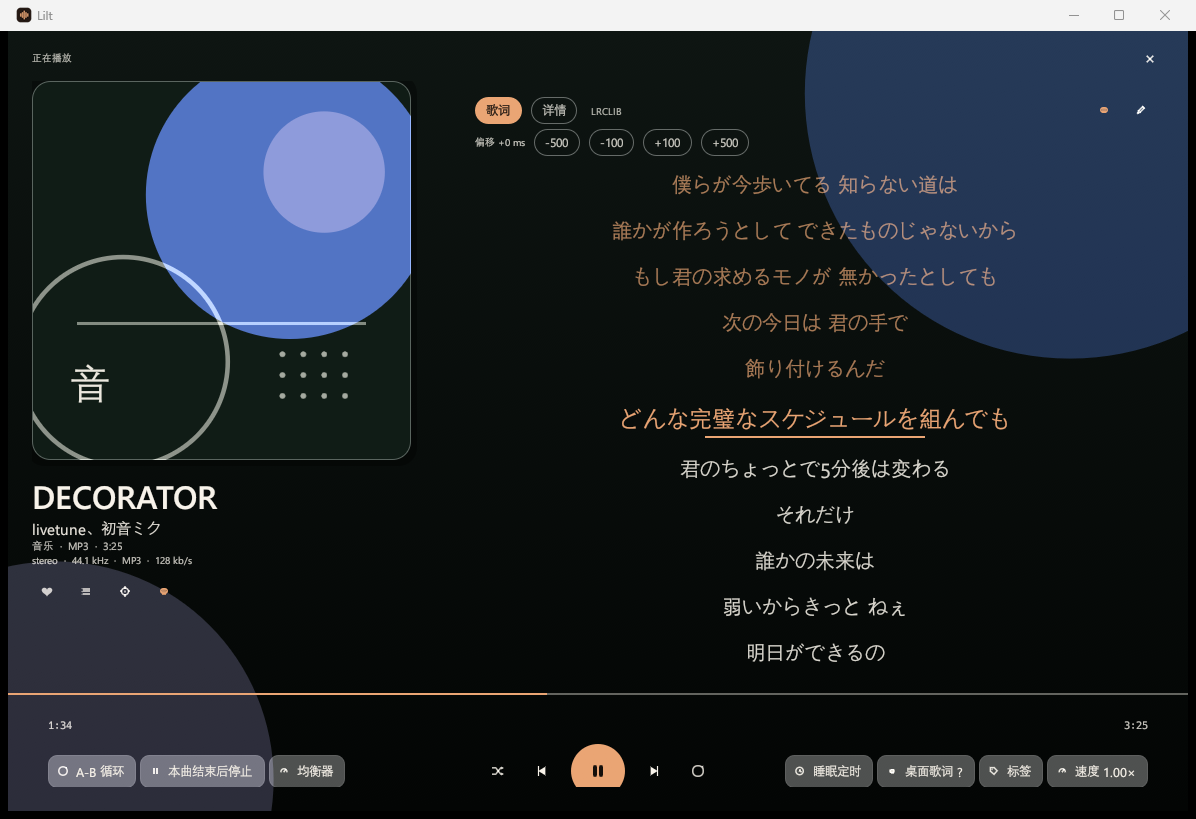
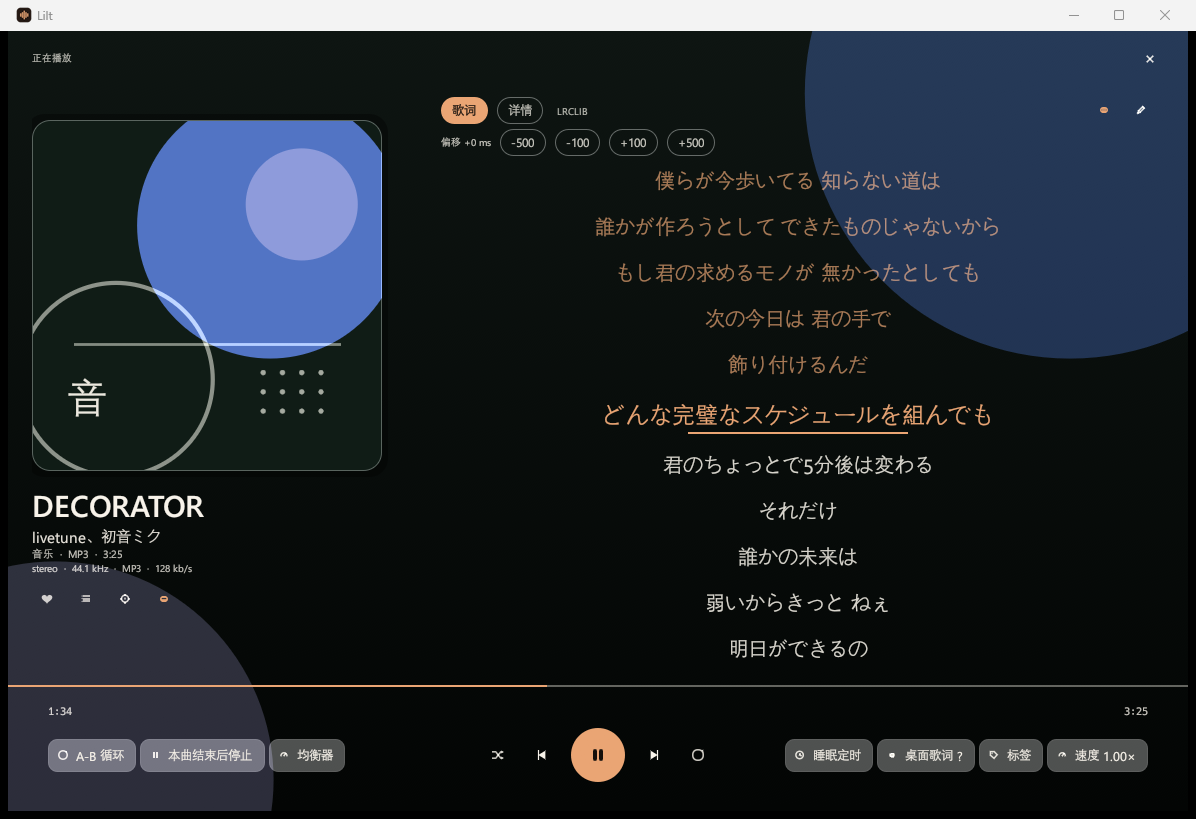
fix(now-playing): fit bottom controls and adapt to maximized windows

diff --git a/base/app/src/ui/now_playing.rs b/base/app/src/ui/now_playing.rs
@@ -12,11 +12,11 @@ use crate::model::{format_duration, LyricsSource, Page, RepeatMode, Song};
 use crate::theme::{cover_palette, display_font, mix, with_alpha, Palette};
 use crate::widgets;
 use eframe::egui::{
-    self, Align, Color32, FontId, Layout, Pos2, Rect, RichText, ScrollArea, Sense, Stroke, Ui,
-    UiBuilder, Vec2,
+    self, Align, Align2, Color32, FontId, Layout, Pos2, Rect, RichText, ScrollArea, Sense, Stroke,
+    Ui, UiBuilder, Vec2,
 };
 
-const MAX_CONTENT_WIDTH: f32 = 1180.0;
+const MAX_CONTENT_WIDTH: f32 = 2200.0;
 const OUTER_MARGIN: f32 = 24.0;
 const LEFT_GAP: f32 = 20.0;
 
@@ -163,7 +163,7 @@ pub fn now_playing(app: &mut LiltApp, ctx: &egui::Context) {
             let content_width = (screen.width() - OUTER_MARGIN * 2.0)
                 .min(MAX_CONTENT_WIDTH)
                 .max(560.0);
-            let bottom_h = 104.0;
+            let bottom_h = 112.0;
 
             ui.allocate_ui_with_layout(
                 Vec2::new(screen.width(), screen.height()),
@@ -201,9 +201,9 @@ pub fn now_playing(app: &mut LiltApp, ctx: &egui::Context) {
                     ui.add_space(8.0);
 
                     let body_h = (screen.bottom() - 14.0 - bottom_h - ui.cursor().top()).max(250.0);
-                    let left_w = (content_width * 0.35)
-                        .clamp(232.0, 400.0)
-                        .min(content_width - 292.0);
+                    let left_w = (content_width * 0.32)
+                        .clamp(250.0, 560.0)
+                        .min(content_width - 300.0);
                     let right_w = content_width - left_w - LEFT_GAP;
 
                     let (body_rect, _) =
@@ -398,7 +398,9 @@ fn left_column(
     locate_current: &mut bool,
     toggle_desktop: &mut bool,
 ) {
-    let cover = (body_h - 118.0).max(120.0).min(body_h * 0.62).min(left_w);
+    let cover = (body_h - 160.0).max(100.0).min(body_h * 0.58).min(left_w);
+    let offset = ((body_h - (cover + 175.0)) * 0.5).clamp(0.0, 100.0);
+    ui.add_space(offset);
     let (cover_rect, _) = ui.allocate_exact_size(Vec2::splat(cover), Sense::hover());
     ui.painter()
         .rect_filled(cover_rect.expand(6.0), 18.0, with_alpha(Color32::BLACK, 90));
@@ -1076,7 +1078,7 @@ fn transport_bar(
     if let Some(value) = divider_seek(ui, fraction, &app.palette, ink, screen_width) {
         *seek = Some(value);
     }
-    ui.add_space(2.0);
+    ui.add_space(4.0);
 
     let outer_pad = ((screen_width - width) / 2.0).max(16.0);
     let content_rect = Rect::from_min_max(
@@ -1088,21 +1090,23 @@ fn transport_bar(
     );
     child_ui(ui, content_rect, Layout::top_down(Align::Min), |ui| {
         ui.spacing_mut().item_spacing.y = 0.0;
-        ui.horizontal(|ui| {
-            ui.label(
-                RichText::new(format_duration(position))
-                    .font(FontId::monospace(10.0))
-                    .color(ink_muted),
-            );
-            ui.with_layout(Layout::right_to_left(Align::Center), |ui| {
-                ui.label(
-                    RichText::new(format_duration(duration))
-                        .font(FontId::monospace(10.0))
-                        .color(ink_muted),
-                );
-            });
-        });
-        ui.add_space(3.0);
+        let content_left = ui.cursor().left();
+        let (time_rect, _) = ui.allocate_exact_size(Vec2::new(width, 14.0), Sense::hover());
+        ui.painter().text(
+            Pos2::new(content_left, time_rect.top()),
+            Align2::LEFT_TOP,
+            format_duration(position),
+            FontId::monospace(10.0),
+            ink_muted,
+        );
+        ui.painter().text(
+            Pos2::new(content_left + width, time_rect.top()),
+            Align2::RIGHT_TOP,
+            format_duration(duration),
+            FontId::monospace(10.0),
+            ink_muted,
+        );
+        ui.add_space(4.0);
 
         let play_size = 54.0;
         let skip_size = 38.0;
@@ -1158,8 +1162,10 @@ fn transport_bar(
         };
         let compact_speed = format!("{:.2}×", app.state.settings.playback_speed);
 
+        let row_top = ui.cursor().top()
+            + ((content_rect.bottom() - ui.cursor().top() - row_h) * 0.5).max(0.0);
         let row_rect = Rect::from_min_size(
-            Pos2::new(ui.cursor().left(), ui.cursor().top()),
+            Pos2::new(ui.cursor().left(), row_top),
             Vec2::new(width, row_h),
         );
         child_ui(ui, row_rect, Layout::left_to_right(Align::Center), |ui| {

diff --git a/docs/feature-gap-and-roadmap.md b/docs/feature-gap-and-roadmap.md
@@ -908,7 +908,7 @@
 
 - PC 正在播放页改为图 4 式两栏布局：左侧封面与歌曲信息，右侧大歌词面板，底部控制区；歌词面板占右侧全部可用高度，1180×780 时可见约 10 行，较旧的 180 px 底部面板明显增大。歌词区与控制区都不使用卡片背景或边框，直接落在封面配色页面上；底部控制区顶部是一条通栏进度线，作为歌词区与控制区的分隔。
 - PC 歌词水平居中；按播放进度高亮当前行并加主题色短下划线，在当前行变化时用 `scroll_to_rect(Align::Center)` 自动滚到歌词面板中间。已播放行使用设置中的已播放颜色，未播放行使用未播放颜色；点击带时间歌词行跳转。没有歌词时在面板内显示获取状态、AI/重试/候选按钮。
-- PC 右侧新增“歌词 / 详情”标签；详情保留接下来播放与文件信息。通栏进度线下方的时间分列左右，五键播放控制始终居中；A-B、单曲停止、均衡器、睡眠定时、桌面歌词、标签、速度等快捷按钮分布在两侧外缘，宽窗口用完整文字、中等窗口用短标签、最窄窗口用图标，播放键位置不变。
+- PC 右侧新增“歌词 / 详情”标签；详情保留接下来播放与文件信息。通栏进度线下方的时间分列左右，五键播放控制始终居中；A-B、单曲停止、均衡器、睡眠定时、桌面歌词、标签、速度等快捷按钮分布在两侧外缘，宽窗口用完整文字、中等窗口用短标签、最窄窗口用图标，播放键位置不变。最大化时内容宽度扩展到 2200 px，左侧封面分组垂直平衡，歌词与控制区随窗口展开。
 - Android 播放页把歌词从底部卡片移到封面与歌曲标题之间：居中显示当前行与下一行，点击整块歌词进入全屏歌词页。全屏页提供居中自动滚动、当前行高亮与背景、点击行跳转、来源标签、偏移控件、进度条和播放控制；右上角铅笔进入原歌词编辑页，菜单同时保留“歌词/编辑歌词”入口。
 - PC 70 项单元测试通过（1 项忽略）；Android 60 项单元测试通过；Android 模拟器 1080×1920 实测播放页与全屏歌词页。
 - 证据见 `base/app/checks/now-playing-lyrics-layout/` 和 `base/app/checks/android-player-lyrics-redesign/`。
@@ -1001,7 +1001,7 @@
 | 2026-11-24 | 文件名标签与 AI 歌词修复 | 完成 | PC/Android 扫描按 `歌手 - 歌名` 兜底、AI 草稿提示词与拒绝识别、PC AI 开发者日志、LRCLIB null 容错、PC 67 项 + Android 60 项测试 |
 | 2026-11-24 | 桌面歌词无级缩放 | 完成 | 解锁态歌词、行距、工具栏按钮与图标同步缩放；取消 460×160 / 3600×760 限制、PC 70 项测试 |
 | 2026-11-24 | 桌面歌词缩放边框 | 完成 | 解锁态 8 px 可见缩放边框、标准双向/斜向光标、原生拖动缩放、PC 70 项测试 |
-| 2026-11-24 | 歌词优先播放页 | 完成 | PC 两栏歌词页、居中自动滚动、无卡片背景、通栏进度线分隔、两侧快捷按钮与居中五键控制；Android 居中当前/下一行与全屏歌词；PC 70 项 + Android 60 项测试 |
+| 2026-11-24 | 歌词优先播放页 | 完成 | PC 两栏歌词页、居中自动滚动、无卡片背景、通栏进度线分隔、两侧快捷按钮与居中五键控制、最大化自适应；Android 居中当前/下一行与全屏歌词；PC 70 项 + Android 60 项测试 |
 | 2026-11-23 | Bugfix | 完成 | PC M4A/MP4 解码崩溃修复、内容探测标签/时长、损坏文件错误提示、PC 41 项测试 |
 | 下一步 | Round 7-E | 待定 | 真正的交叉淡化、批量重命名、Android 磁贴/Auto |
 
@@ -1125,3 +1125,4 @@ Round 4 的截图、数据库迁移和计数验证见 `base/app/checks/round-4/`
 | v0.13.8 | 2026-11-24 | 桌面歌词无级缩放：取消最小/最大尺寸限制，歌词、按钮与图标一起缩放 |
 | v0.13.9 | 2026-11-24 | 歌词优先播放页：PC 两栏布局、居中自动滚动与歌词/详情标签；Android 居中当前/下一行与全屏歌词页 |
 | v0.13.10 | 2026-11-24 | 正在播放页视觉收口：去掉卡片底色、通栏进度条分隔、快捷按钮分列两侧且五键播放控制保持居中 |
+| v0.13.11 | 2026-11-24 | 播放页自适应最大化：内容宽度扩展到 2200 px，左侧封面分组垂直平衡，底部五键与两侧控件完整显示 |

diff --git a/base/app/checks/now-playing-lyrics-layout/README.md b/base/app/checks/now-playing-lyrics-layout/README.md
@@ -19,6 +19,9 @@ right, and one transport bar along the bottom.
   windows use full labels; medium windows switch to short labels (A-B, 本曲后停止, 均衡,
   定时, 桌面, 标签, 1.00×); only the narrowest windows use icon buttons. No label is clipped
   at the tested 1045/900/720 px widths.
+- Large and maximized windows expand the content width up to 2200 px instead of staying in
+  a 1180 px column. The cover grows, the left group is vertically balanced, and the lyrics
+  and controls fill the window while the transport stays at its centre.
 - Lyric lines are centred horizontally. The active line is centred vertically in the pane
   with `scroll_to_rect(..., Align::Center)` whenever the highlighted line changes, so the
   sheet follows playback.
@@ -44,6 +47,7 @@ right, and one transport bar along the bottom.
 | `04-after-720x540.png` | Minimum window keeps the transport centred and all controls unclipped |
 | `05-details-tab.png` | Details tab with Up next and the file card |
 | `06-compact-1045x650.png` | Medium window uses short but complete labels; transport stays centred and nothing is cut off |
+| `07-maximized-1900x1000.png` | Maximized layout expands, balances the left group, and keeps the fully visible transport centred |
 
 The `02` capture uses `LILT_START_PAGE=now`, `LILT_LYRICS=1`, `LILT_AUTOPLAY=1` and
 `LILT_SEEK=80` against a copied test state, then PrintWindow at 1180×780.
@@ -60,6 +64,6 @@ in `base/app/src/ui/now_playing.rs`; `dialogs.rs` delegates to it so the existin
 and action plumbing stays unchanged.
 
 ```text
-dist/Lilt-0.1.0-win64/Lilt.exe        11,961,856 bytes  (PE subsystem 2)
-dist/Lilt-0.1.0-win64-portable.zip    18,496,032 bytes
+dist/Lilt-0.1.0-win64/Lilt.exe        11,960,320 bytes  (PE subsystem 2)
+dist/Lilt-0.1.0-win64-portable.zip    18,495,991 bytes
 ```

diff --git a/base/app/README.md b/base/app/README.md
@@ -112,9 +112,11 @@ Set `LILT_DATA_DIR` to use a different data folder.
   background. A full-window progress line separates the lyrics from the controls; the
   played part uses the theme accent. Quick actions sit at the two outer edges while
   shuffle, previous, play/pause, next and repeat stay exactly centred; medium windows use
-  short labels and the narrowest windows use icons, so no control is clipped. The current
-  line follows playback, is kept in the middle, and has a short accent underline. Clicking
-  any timed line seeks to it. The **Details** tab keeps Up next and the file card.
+  short labels and the narrowest windows use icons, so no control is clipped. Maximized
+  windows expand the content instead of leaving side bars, and the left cover group is
+  vertically balanced. The current line follows playback, is kept in the middle, and has a
+  short accent underline. Clicking any timed line seeks to it. The **Details** tab keeps Up
+  next and the file card.
 - Up to 20 named queues with unique names, no duplicates, remembered positions, loading
   from a playlist, M3U export, and the target's Replace/Merge policy for same-name
   creation (Replace is the default).
